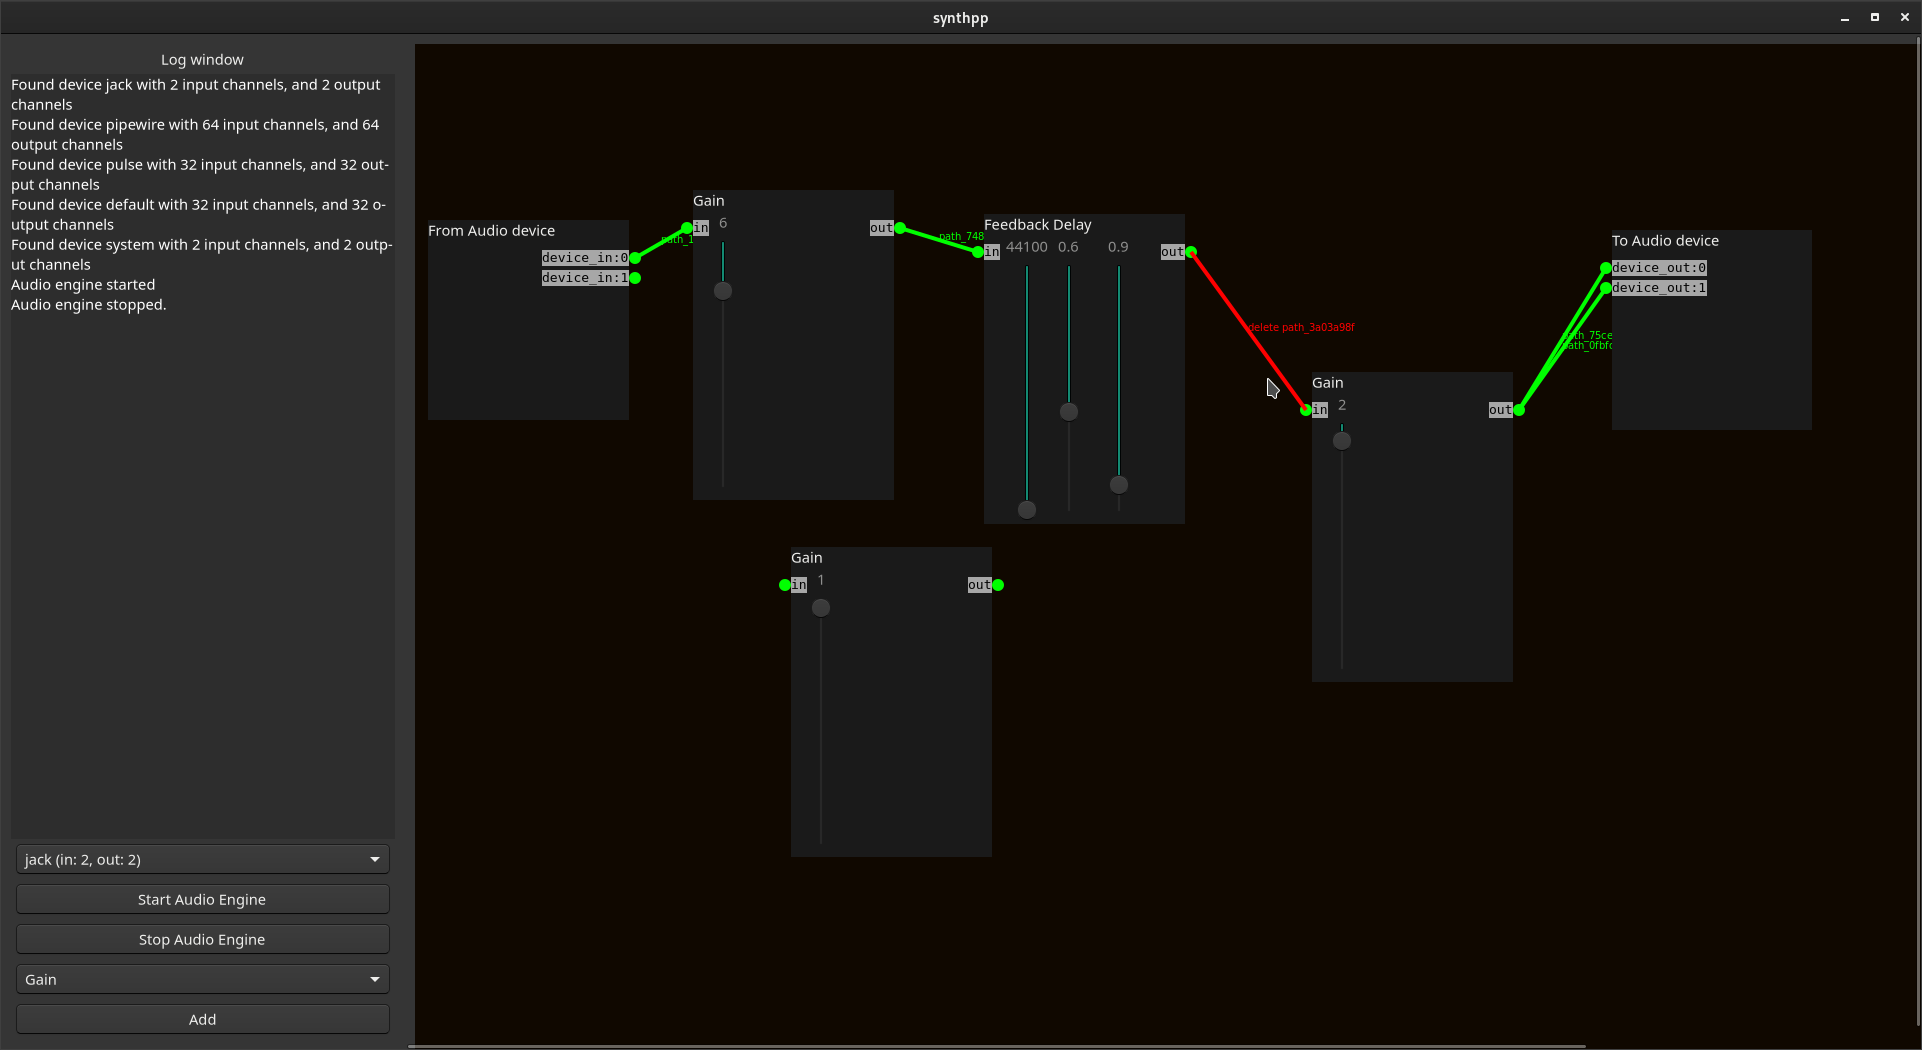
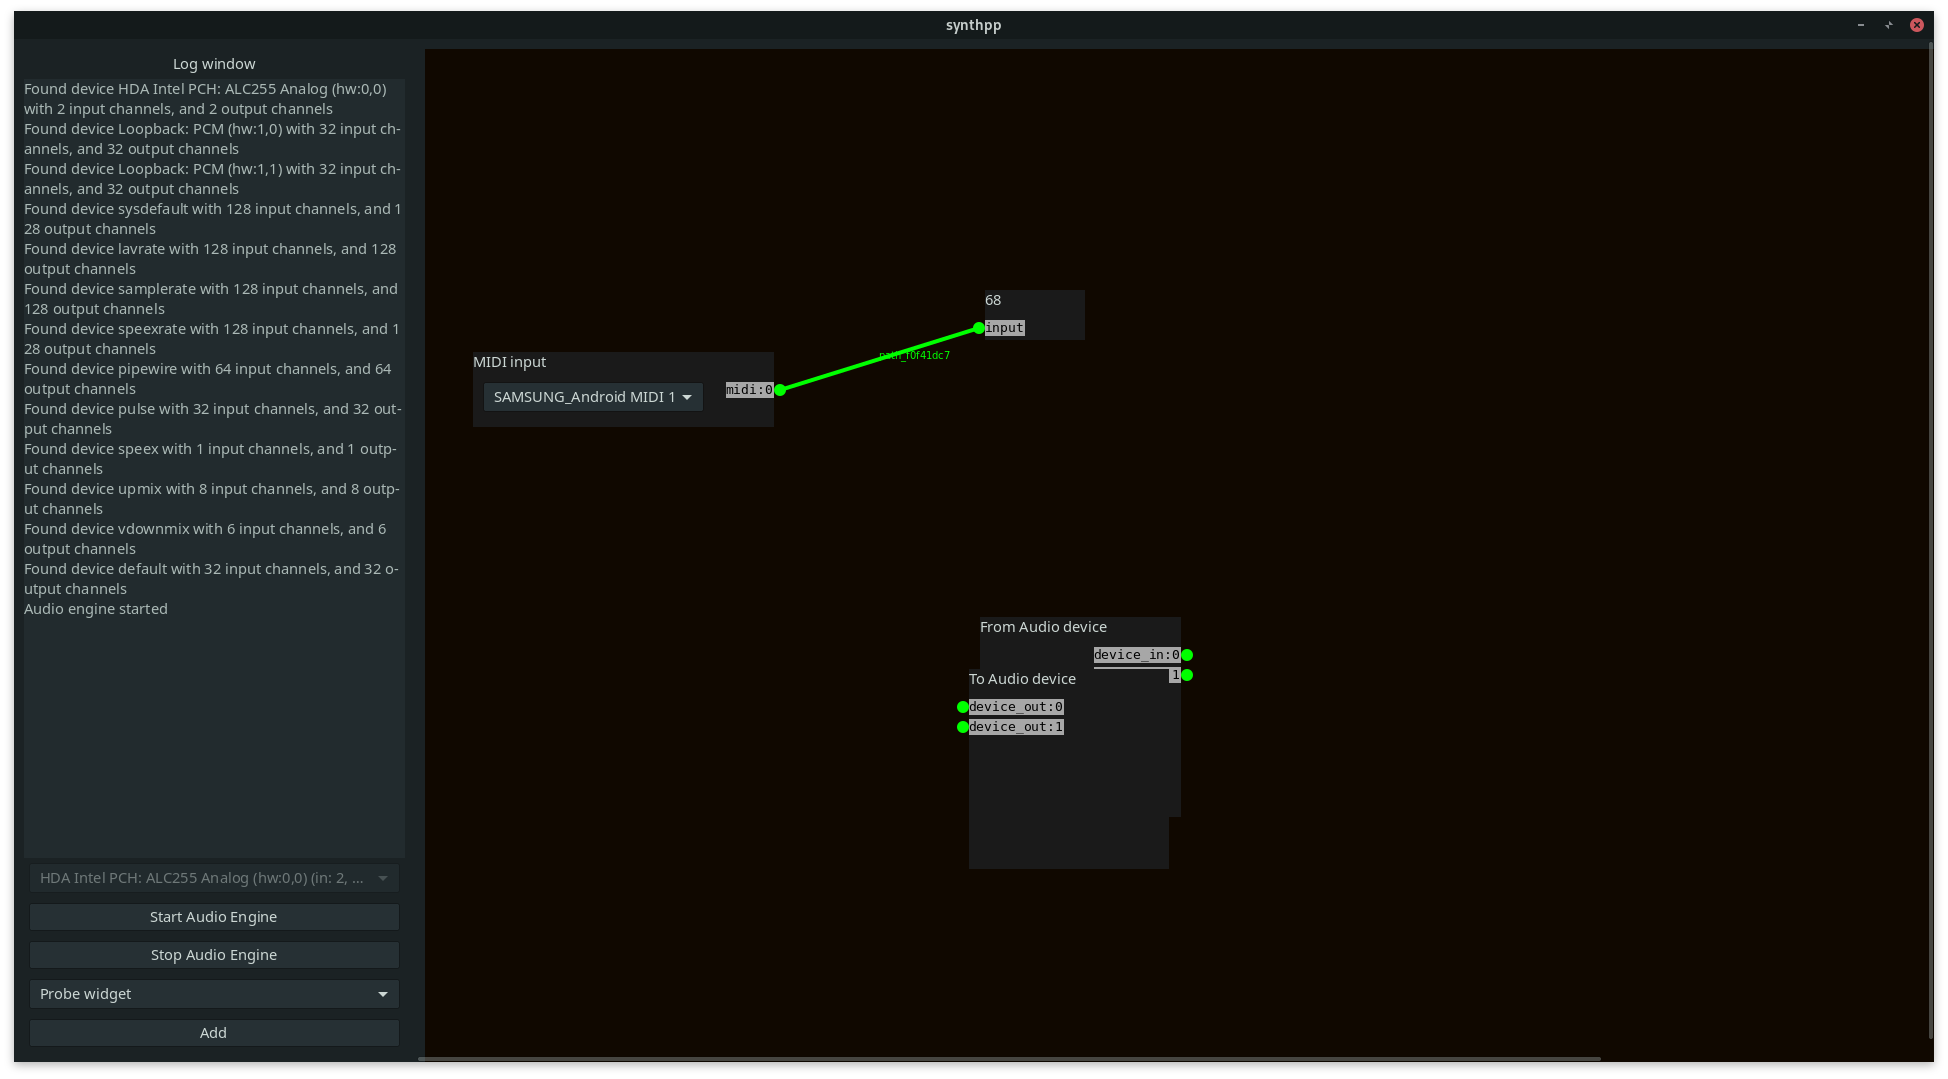
04/02 - First MIDI code, can receive messages

Changed region(s): [[0.0, 0.0, 1.0, 1.0]]

diff --git a/midi_widget.cpp b/midi_widget.cpp
@@ -1,0 +1,128 @@
+// Copyright (C) 2022 Eduardo Ferreira
+// 
+// This file is part of synthpp.
+// 
+// synthpp is free software: you can redistribute it and/or modify
+// it under the terms of the GNU General Public License as published by
+// the Free Software Foundation, either version 3 of the License, or
+// (at your option) any later version.
+// 
+// synthpp is distributed in the hope that it will be useful,
+// but WITHOUT ANY WARRANTY; without even the implied warranty of
+// MERCHANTABILITY or FITNESS FOR A PARTICULAR PURPOSE.  See the
+// GNU General Public License for more details.
+// 
+// You should have received a copy of the GNU General Public License
+// along with synthpp.  If not, see <http://www.gnu.org/licenses/>.
+
+#include "midi_widget.h"
+#include <tuple>
+#include <iostream>
+
+midi_widget::midi_widget()
+{
+    //enumerate devices
+    int cnt = Pm_CountDevices();
+    int iter = 0;
+    for(int i = 0; i < cnt; i++)
+    {
+        const PmDeviceInfo* info = Pm_GetDeviceInfo(i);
+        std::cout << "Detected: " << info->name << " " << ((info->input) ? "I" : "i") << "/" << ((info->output) ? "O" : "o") << std::endl;
+        if(info->input) //is input
+            midi_device_list[iter++] = i;
+    }
+
+    //now we have a list of detected midi devices
+    //create the ui
+
+    set_label("MIDI input");
+    set_css_style("widget.css", "widget");
+
+    //create the textcombobox
+    midi_device_combo.set_size_request(150, -1);
+    for(std::pair<int, PmDeviceID> device : midi_device_list)
+    {
+        const PmDeviceInfo* info = Pm_GetDeviceInfo(device.second);
+        midi_device_combo.insert(device.first, info->name);
+    }
+    put(midi_device_combo, 10, 30);
+    set_size_request(300, 75);
+    //connect signal changed
+    midi_device_combo.signal_changed().connect(sigc::mem_fun(*this, &midi_device_combo_changed), true);
+
+    //create port
+    output_port = new port("midi:0", port::port_type::OUTPUT);
+    add_port(output_port);
+}
+
+midi_widget::~midi_widget()
+{
+    delete output_port;
+}
+
+void midi_widget::midi_device_combo_changed()
+{
+    int selected = midi_device_combo.get_active_row_number();
+    //get the device
+    PmDeviceID dev_id = midi_device_list.at(selected);
+    midi_current_device = dev_id;
+
+    //openstream
+    if(midi_stream != nullptr)
+        Pm_Close(midi_stream);
+
+    Pm_OpenInput(&midi_stream, dev_id, NULL, 32, NULL, NULL);
+    
+}
+
+void midi_widget::process()
+{
+    PmEvent incoming_events[32]; //we defined max 32
+    //are there messages waiting?
+    if(Pm_Poll(midi_stream))
+    {
+        //how many
+        int count = Pm_Read(midi_stream, incoming_events, 32);
+        for(int i = 0; i < count; i++)
+        {
+            //add event to queue(if channel 0)
+            //get status byte
+            char status = Pm_MessageStatus(incoming_events[i].message);
+            int channel = status & 0xF;
+
+            if(channel == 0)
+            {
+                //check if it is a control change
+                int type = (status & 0xF0) >> 4;
+                if(type == 0b1011)
+                {
+                    midi_event_queue.push(incoming_events[i]);
+                }
+            }
+
+        }
+    }
+
+    //lets deal with the queue, just one event
+    if(midi_event_queue.size() != 0)
+    {
+        PmEvent pe = midi_event_queue.front();
+        midi_event_queue.pop();
+
+        int msg2 = Pm_MessageData2(pe.message);
+
+        output_port->push_sample(msg2);
+        lastmsg = msg2;
+    } else
+    {
+        output_port->push_sample(lastmsg);
+    }
+}
+
+void midi_widget::process_ui()
+{}
+
+void midi_widget::post_creation_callback()
+{
+    set_ready(true);
+}

diff --git a/midi_widget.h b/midi_widget.h
@@ -1,0 +1,59 @@
+// Copyright (C) 2022 Eduardo Ferreira
+// 
+// This file is part of synthpp.
+// 
+// synthpp is free software: you can redistribute it and/or modify
+// it under the terms of the GNU General Public License as published by
+// the Free Software Foundation, either version 3 of the License, or
+// (at your option) any later version.
+// 
+// synthpp is distributed in the hope that it will be useful,
+// but WITHOUT ANY WARRANTY; without even the implied warranty of
+// MERCHANTABILITY or FITNESS FOR A PARTICULAR PURPOSE.  See the
+// GNU General Public License for more details.
+// 
+// You should have received a copy of the GNU General Public License
+// along with synthpp.  If not, see <http://www.gnu.org/licenses/>.
+
+//this class defines a midi interface for use within the other widgets
+
+#include "audio_widget.h"
+#include "port.h"
+
+#include <map>
+#include <queue>
+
+#include <gtkmm/comboboxtext.h>
+
+#include <portmidi.h>
+
+class midi_widget : public audio_widget
+{
+
+    public:
+
+        midi_widget();
+        ~midi_widget();
+
+        void process();
+        void process_ui();
+        void post_creation_callback();
+
+    protected:
+
+        std::map<int, PmDeviceID> midi_device_list;
+
+        Gtk::ComboBoxText midi_device_combo;
+        void midi_device_combo_changed();
+
+        PmDeviceID midi_current_device = -1;
+
+        port* output_port;
+
+        //midi_event_queue
+        PortMidiStream *midi_stream = nullptr;
+        std::queue<PmEvent> midi_event_queue;
+
+        int lastmsg = 0;
+
+};

diff --git a/mainwindow.cpp b/mainwindow.cpp
@@ -23,6 +23,7 @@
 #include "delay_widget.h"
 #include "feedback_delay_widget.h"
 #include "gain_widget.h"
+#include "midi_widget.h"
 
 #include <pthread.h>
 #include <algorithm>
@@ -100,10 +101,11 @@ MainWindow::MainWindow(){
     widget_catalog.insert(1, "delay", "Slap-Back Delay");
     widget_catalog.insert(2, "fdelay", "Feedback Delay");
     widget_catalog.insert(3, "gain", "Gain");
-    widget_catalog.insert(4, "c4", "Counter: 4 bits");
-    widget_catalog.insert(5, "c8", "Counter: 8 bits");
-    widget_catalog.insert(6, "c16", "Counter: 16 bits");
-    widget_catalog.insert(7, "probe", "Probe widget");
+    widget_catalog.insert(4, "midi", "MIDI input device");
+    widget_catalog.insert(5, "c4", "Counter: 4 bits");
+    widget_catalog.insert(6, "c8", "Counter: 8 bits");
+    widget_catalog.insert(7, "c16", "Counter: 16 bits");
+    widget_catalog.insert(8, "probe", "Probe widget");
     right_panel.attach(widget_catalog, 0, 5, 1, 1);
 
     test_button.set_hexpand(true);
@@ -204,6 +206,10 @@ void MainWindow::test_button_clicked_callback()
     else if(selection == "gain")
     {
         to_add = new gain_widget();
+    }
+    else if(selection == "midi")
+    {
+        to_add = new midi_widget();
     }
     else if(selection == "c4")
     {

diff --git a/audio_engine.cpp b/audio_engine.cpp
@@ -45,6 +45,14 @@ audio_engine::audio_engine(std::vector<audio_widget*>* widget_list, std::vector<
             device_vector.push_back(std::pair(i, info));
         }
     }
+
+    //now its time to create the midi context
+    PmError midi_err;
+    midi_err = Pm_Initialize();
+    if(err != pmNoError) log.log(Pm_GetErrorText(midi_err));
+    //device enumeration is done by the widget...
+    //need porttime for portmidi timekeeping
+    Pt_Start(1, NULL, NULL);
 }
 
 void audio_engine::set_current_device(int id)

diff --git a/audio_engine.h b/audio_engine.h
@@ -30,6 +30,8 @@
 
 #include <pthread.h>
 #include <portaudio.h>
+#include <portmidi.h>
+#include <porttime.h>
 
 class audio_engine
 {

diff --git a/README.md b/README.md
@@ -4,13 +4,14 @@ An open-source software synthesizer. Trying to emulate the flexibility of rack s
 ## Dependencies
 
   - PortAudio
+  - PortMidi
   - Boost Circular Buffer
   - Gtkmm-4.0
 
 ## Picture of the Day
 ![screenshot](screenshot.png)
 
-as seen in 14/01/2022
+as seen in 04/02/2022
 
 ## Details
 
@@ -26,10 +27,10 @@ as seen in 14/01/2022
    - Simple delay;
    - Delay with feedback, echo.
 
-  This marks, however, the first prototype of the program, with a working audio engine and two working audio widgets. We release the first version of this very almost pre- alpha software: <B> 0.1-alpha </B>
+  This marks, however, the first prototype of the program, with a working audio engine and two working audio widgets. We release the first version of this very almost pre-alpha software: <B> 0.1-alpha </B>
 
   ## Please read: Information
 
-  This software is still in development, definitely very buggy, and done by someone which is not a professional IT-designer/programmer/... While it "works", I cannot promise it won't burn down your house, or kill your gold fish -- it's your risk. Jokes aside, it is "as-is", don't expect a fully polished software, or one that has been professionally designed and quality assessed.
+  This software is still in development, definitely very buggy, and done by someone who is not a professional IT designer/programmer/... While it "works", I cannot promise it won't burn down your house, or kill your goldfish -- it's your risk. Jokes aside, it is "as-is", don't expect a fully polished software, or one that has been professionally designed and quality assessed.
 
   
